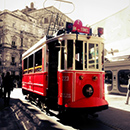
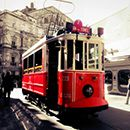
greyscale & threshold filter added

diff --git a/src/js-api/chiwash.js b/src/js-api/chiwash.js
@@ -1,0 +1,122 @@
+// Echo's Chinese Ink Wash filter library 
+// modified on 2014.Feb.2
+// based on Echo's old Chines Ink Wash IOS code
+
+ChinwashFilter = {
+
+	greyscale: function(pixel) {
+		var d = pixel.data;
+		for (var i = 0; i < d.length; i+=4) {
+					var r = d[i];
+					var g = d[i+1];
+					var b = d[i+2];
+					var v = (r+g+b)/3;
+					d[i] = d[i+1] = d[i+2] = v;
+
+				}
+		return pixel;
+	},
+
+
+	otsuThreshold: function(pixel){
+		var histogram = new Array();
+		for (var i = 0; i < 256; i++) {
+			histogram[i] = 0;
+		};
+		var d = pixel.data;
+		for (var i = 0; i < d.length; i+=4) {
+					var r = d[i];
+					var g = d[i+1];
+					var b = d[i+2];
+					var v = (r+g+b)/3;
+					n = Math.round(v);
+					histogram[n]+=1;
+		}
+
+		// // normalize the histogram
+		// for (var i=0; i<256; i++) {
+  //       	histogram[i]=histogram[i]/d.length;
+  //   	}
+  //   	console.log("histogram", histogram);
+  //   	var w = pixel.width;
+  //   	console.log("w",w);
+  //   	var avg=0;
+  //   	for (var i=0; i<256; i++) {
+  //       	avg+=i*histogram[i];
+  //  		 }
+  //  		 console.log("avg",avg);
+  //  		var threshold=0;
+  //   	var maxVariance=0;
+  //   	var wi=0, ui=0;
+  //   	for (var i=0; i<256; i++) {
+  //       	wi+=histogram[i];
+  //      		ui+=i*histogram[i];
+  //       	var t=avg*wi-ui;
+  //       	var variance=t*t/(w*(1-w));
+  //       	 console.log("variance",variance);
+
+  //       		if (variance>maxVariance) {
+  //           		maxVariance = variance;
+  //           		threshold=i;
+  //       		}
+        	
+  //   	}
+  //   	console.log("wi", wi);
+  //   	console.log("ui", ui);
+    	
+  		var sum = 0;
+  		for (var i = 1; i < 256; ++i){
+        	sum += i * histogram[i];
+        }
+        console.log('sum',sum);
+        var sumB = 0;
+	    var wB = 0;
+	    var wF = 0;
+	    var mB;
+	    var mF;
+	    var max = 0.0;
+	    var between = 0.0;
+	    var threshold1 = 0.0;
+	    var threshold2 = 0.0;
+	    for (var i = 0; i < 256; ++i) {
+        	wB += histogram[i];
+        	if (wB == 0)
+            	continue;
+        	wF = d.length - wB;
+        	if (wF == 0)
+            	break;
+        	sumB += i * histogram[i];
+        	mB = sumB / wB;
+        	mF = (sum - sumB) / wF;
+         	between = wB * wF * Math.pow(mB - mF, 2);
+        	if ( between >= max ) {
+            	threshold1 = i;
+            if ( between > max ) {
+                threshold2 = i;
+            }
+            max = between;            
+        }
+        threshold =  ( threshold1 + threshold2 ) / 2.0;
+    }
+		return threshold;
+
+	},
+
+	threshold: function(pixel) {
+		// var threshold= ChinwashFilter.otsuThreshold(pixel);
+		// console.log("otsuThreshold",threshold);
+		var threshold = 128;
+		var d = pixel.data;
+		for (var i = 0; i < d.length; i+=4) {
+					var r = d[i];
+					var g = d[i+1];
+					var b = d[i+2];
+					var v = (r+g+b)/3;
+					console.log()
+					var n = v >= threshold ?  255 : 0;
+					d[i] = d[i+1] = d[i+2] = n;
+				}
+		return pixel;
+	},
+
+};

diff --git a/index.html b/index.html
@@ -11,20 +11,20 @@
   <link href='http://fonts.googleapis.com/css?family=Lobster+Two:700,700italic|Yanone+Kaffeesatz:400,700' rel='stylesheet' type='text/css'>
 
    <script>
-  // (function(i,s,o,g,r,a,m){i['GoogleAnalyticsObject']=r;i[r]=i[r]||function(){
-  // (i[r].q=i[r].q||[]).push(arguments)},i[r].l=1*new Date();a=s.createElement(o),
-  // m=s.getElementsByTagName(o)[0];a.async=1;a.src=g;m.parentNode.insertBefore(a,m)
-  // })(window,document,'script','//www.google-analytics.com/analytics.js','ga');
+  (function(i,s,o,g,r,a,m){i['GoogleAnalyticsObject']=r;i[r]=i[r]||function(){
+  (i[r].q=i[r].q||[]).push(arguments)},i[r].l=1*new Date();a=s.createElement(o),
+  m=s.getElementsByTagName(o)[0];a.async=1;a.src=g;m.parentNode.insertBefore(a,m)
+  })(window,document,'script','//www.google-analytics.com/analytics.js','ga');
 
-  // ga('create', 'UA-47352011-1', 'echoyu.com');
-  // ga('send', 'pageview');
-  //  </script>
+  ga('create', 'UA-47352011-1', 'echoyu.com');
+  ga('send', 'pageview');
+  </script>
 </head>
 <body>
 
 	  <div class="pure-g-r" id ="title">
      <div class="pure-u-1">
-      <span id="name">Pick Web App<span id="beta">&nbsp&nbsp&nbspbeta</span></span>
+      <span id="name">Pick Web App<span id="beta">&nbsp&nbsp&nbspbeta</span></span><br>
      </div>
   </div>
 
@@ -32,9 +32,14 @@
     <h3 id="info"><br><br><br><br><br>drag and drop</h3> 
   </div>
 
+<!-- threashold edge stroke -->
    <div id ="filter_holder">
+     <span id="update">2 more filters added: Greyscale & Threshold</span>
         <ul id="filters">
             <li> <a href="#" id="normal">Normal</a> </li>
+            <li> <a href="#" id="greyscale">Greyscale</a> </li>
+            <li> <a href="#" id="threshold">Threshold</a> </li>
+           <!--  <li> <a href="#" id="edge">Edge</a> </li> -->
             <li> <a href="#" id="vintage">Vintage</a> </li>
             <li> <a href="#" id="lomo">Lomo</a> </li>
             <li> <a href="#" id="clarity">Clarity</a> </li>
@@ -64,7 +69,7 @@
        </p>
        </div>
       <div class= "right_footer">
-        <p>Echo Yu <a href="#"><i class="fa fa-heart"></i></a> 2014</p>  
+        <p>Echo Yu <a href="http://www.echoyu.com"><i class="fa fa-heart"></i></a> 2014</p>  
       </div>  
       </div>
   </footer>
@@ -73,6 +78,7 @@
   <script src="https://ajax.googleapis.com/ajax/libs/jquery/1.9.0/jquery.min.js"></script>
   <script src="src/js-api/filereader.min.js"></script>
   <script src="src/js-api/caman.full.js"></script>
+  <script src="src/js-api/chiwash.js"></script>
   <script src="src/js-api/jquery.mousewheel.min.js"></script>
   <script src="src/action.js"></script>
 

diff --git a/src/action.js b/src/action.js
@@ -3,7 +3,10 @@ $(function() {
 	var	pic = $('#pic_holder'),
 		filters = $('#filters li a'),
 		filter_holder = $('#filter_holder');
-		temp = null;
+		temp = null; 
+		// buffer = null;
+		// imgData = null;
+
 		
 
 	// Use the fileReader plugin to listen for file drag and drop on the pic_holder div
@@ -37,6 +40,12 @@ $(function() {
 					//draw the resized image on canvas 
 					temp = $('<canvas>');
 					var tempContext = temp[0].getContext('2d');
+
+					//get the raw image data
+					// imgData = tempContext.getImageData(0,0,this.width,this.height);
+					// buffer = imgData.data;
+					// console.log(buffer);
+					// console.log('original imgData',imgData);
 
 					temp.attr({
 						width: this.width,
@@ -82,18 +91,41 @@ $(function() {
 		//clone the original canvas
 		var clone = temp.clone();
 
+		var cloneContext = clone[0].getContext('2d');
 		//draw image on the canvas
-		clone[0].getContext('2d').drawImage(temp[0],0,0);
+		cloneContext.drawImage(temp[0],0,0);
+
+		imgData = cloneContext.getImageData(0,0,clone[0].width,clone[0].height);
 
 		//add canvas show on the div
 		pic.find('canvas').remove().end().append(clone);
 
 		//if effects exits in Caman filters
 		var effect = $.trim(f[0].id);
-		// console.log(effect);
+		// console.log(buffer);
+
+
+
 
 		Caman(clone[0], function () {
-			if( effect in this){
+			
+			if (effect ===  "greyscale"){
+				console.log("greyscale");
+				ChinwashFilter.greyscale(imgData);
+				cloneContext.putImageData(imgData, 0,0);
+				pic.find('canvas').remove().end().append(clone);
+			}
+			else if (effect === "threshold"){
+				console.log("threshold");	
+				ChinwashFilter.threshold(imgData);
+				cloneContext.putImageData(imgData, 0,0);
+				pic.find('canvas').remove().end().append(clone);
+			}
+			else if (effect === "edge"){
+				console.log("edge");
+			}
+			else if( effect in this){
+				console.log(effect + ' exits');
 				this[effect]();
 				this.render();
 			}
@@ -108,6 +140,7 @@ $(function() {
 		e.preventDefault();
 
 	});
+
 
 
 

diff --git a/src/main.css b/src/main.css
@@ -22,6 +22,17 @@ body{
 	color: #C73E3A;
 }
 
+#filter_holder{
+	text-align: center;
+}
+
+#filter_holder #update{	
+    font-family: 'Yanone Kaffeesatz', sans-serif;
+    font-size: 24px;
+	color: #C73E3A;
+	opacity: 0.7;
+}
+
 h3{
 	font-family: 'Yanone Kaffeesatz', sans-serif;
     font-size: 27px;
@@ -87,6 +98,7 @@ p a:hover{
 	list-style: none;
 	white-space: nowrap;
 	overflow-x: scroll;
+	margin-bottom: 100px;
 }
 
 #filters li{
@@ -112,6 +124,8 @@ p a:hover{
 /*filters preivew*/
 /*#filters li #normal{background-image:url('http://placekitten.com/g/130/130'); }*/
 #filters li #normal{		background-image:url('img/normal.jpg'); }
+#filters li #greyscale{		background-image:url('img/greyscale.png'); }
+#filters li #threshold{		background-image:url('img/threshold.png'); }
 #filters li #vintage{		background-image:url('img/vintage.png'); }
 #filters li #lomo{			background-image:url('img/lomo.png'); }
 #filters li #clarity{		background-image:url('img/clarity.png'); }
